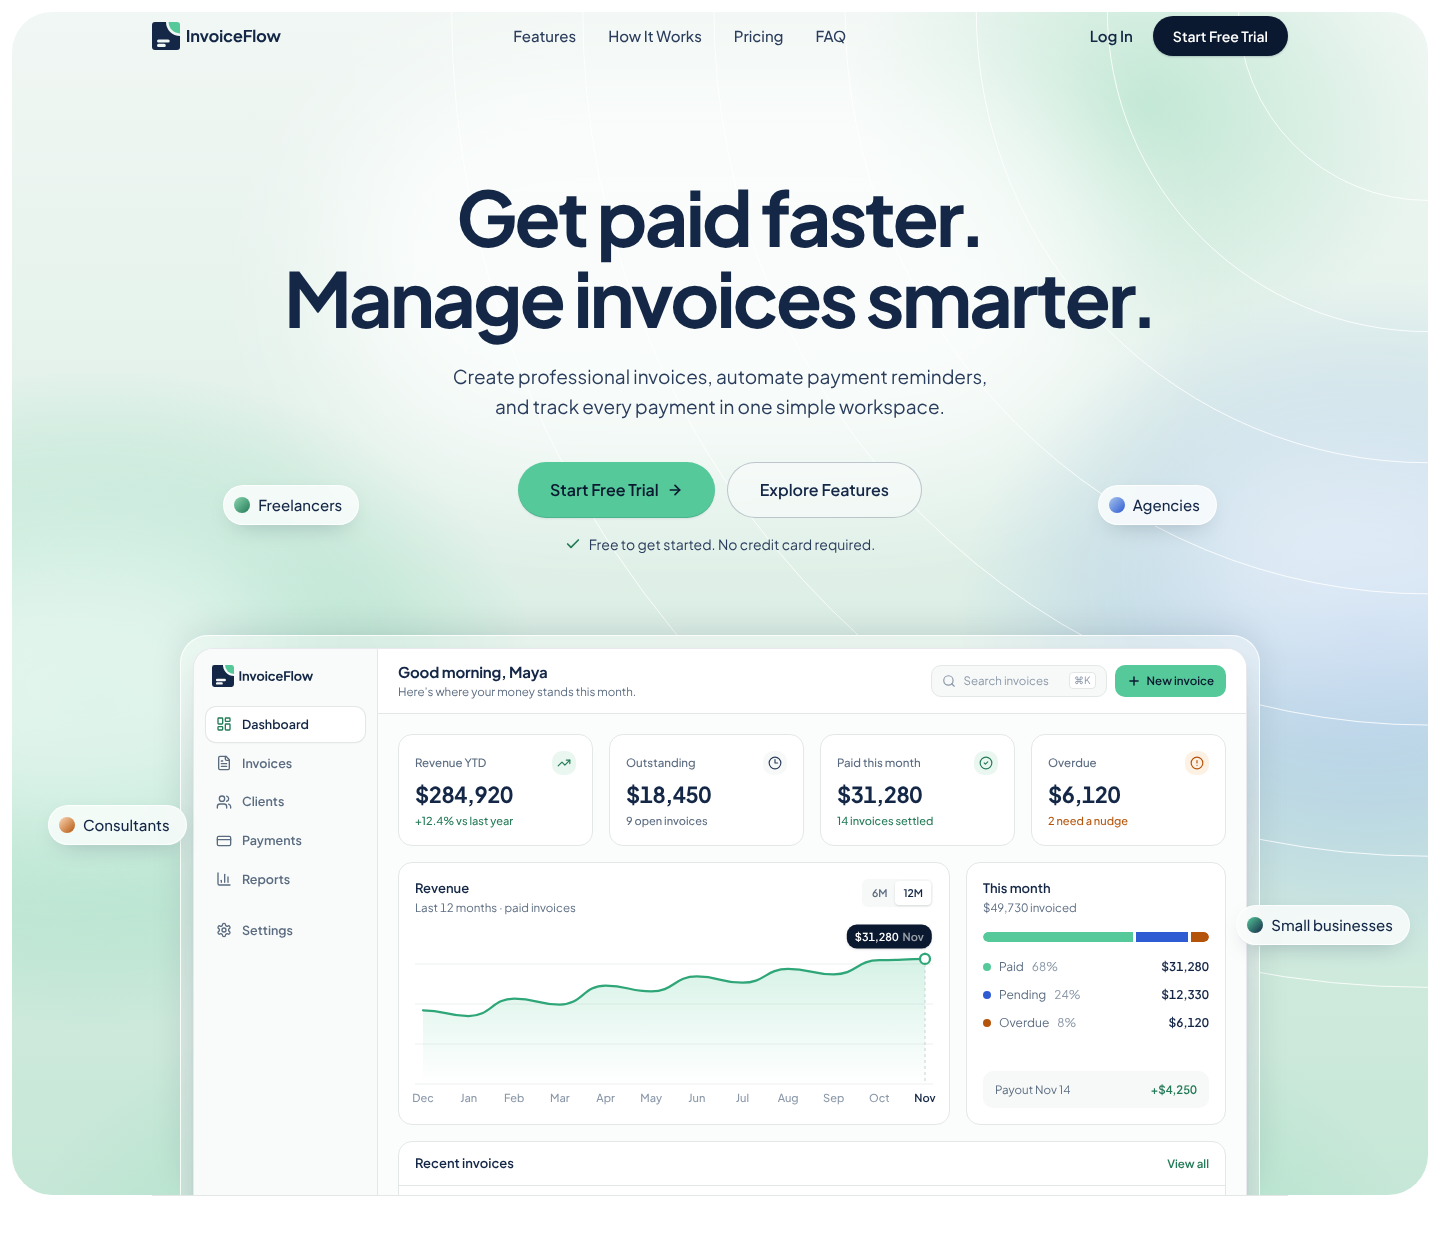
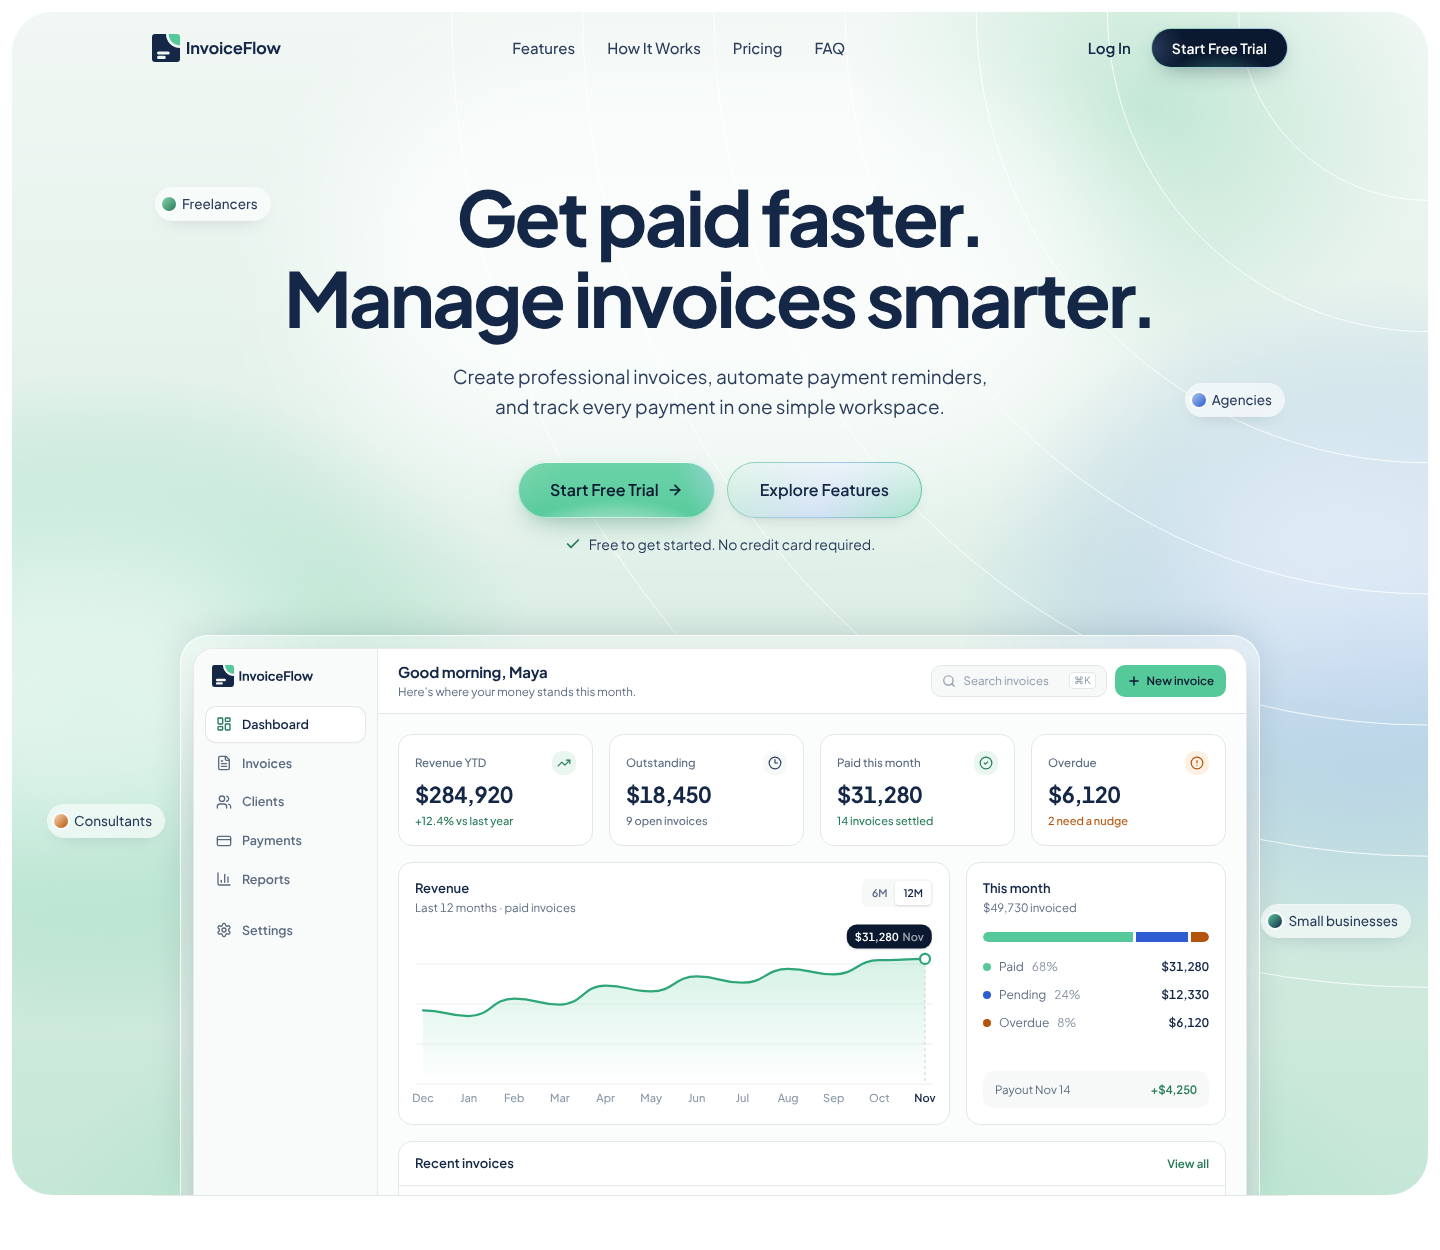
Signature glow buttons, calmer audience chips, nav breathing room
Buttons become pills with layered brand-colour light: a mint-to-sky glow
for primary actions, frosted glass with a gradient rim for secondary,
and a midnight aurora pill for the header CTA. Worst-case label contrast
measured per pixel is 8.4:1 or better (AAA); see docs/button-contrast.md.

Audience chips are smaller and move to headline and subhead height so
they no longer read as buttons beside the CTAs. The header gains top
margin so nav items clear the hero panel's rounded edge.

Claude-Session: https://claude.ai/code/session_01BMwnAZUSDMBHdEEFwNrE9Z

diff --git a/src/index.css b/src/index.css
@@ -47,7 +47,7 @@
 @layer base {
   html {
     scroll-behavior: smooth;
-    scroll-padding-top: 88px;
+    scroll-padding-top: 100px;
     -webkit-text-size-adjust: 100%;
   }
   body {
@@ -140,4 +140,94 @@
 .animate-drift {
   animation: drift 6s ease-in-out infinite;
   animation-delay: var(--drift-delay, 0s);
+}
+
+/*
+ * Signature buttons: soft light trapped inside a pill, in brand colours.
+ * Text colours are fixed (navy on light fills, white on midnight) so contrast
+ * stays at or above WCAG AA wherever the glow sits; see docs/button-contrast.md.
+ */
+@layer components {
+  .btn-glow {
+    position: relative;
+    isolation: isolate;
+    color: var(--color-midnight);
+    background:
+      radial-gradient(60% 75% at 50% 118%, rgb(255 255 255 / 1), transparent 72%),
+      radial-gradient(38% 120% at 6% 10%, rgb(160 226 196 / 1), transparent 70%),
+      radial-gradient(42% 150% at 100% 30%, rgb(176 206 245 / 1), transparent 72%),
+      linear-gradient(180deg, #62d0a2 0%, #4cc493 100%);
+    background-size: 140% 140%;
+    background-position: 50% 50%;
+    box-shadow:
+      inset 0 0 0 1px rgb(255 255 255 / 0.55),
+      inset 0 1px 0 rgb(255 255 255 / 0.75),
+      0 10px 28px -12px rgb(35 122 87 / 0.65);
+    transition:
+      background-position 500ms var(--ease-out-soft),
+      box-shadow 300ms var(--ease-out-soft),
+      transform 200ms var(--ease-out-soft);
+  }
+  .btn-glow:hover {
+    background-position: 30% 70%;
+    box-shadow:
+      inset 0 0 0 1px rgb(255 255 255 / 0.7),
+      inset 0 1px 0 rgb(255 255 255 / 0.85),
+      0 14px 34px -12px rgb(35 122 87 / 0.75);
+  }
+
+  /* Frosted glass with a mint-to-sky gradient rim; for light backgrounds. */
+  .btn-glass {
+    color: var(--color-ink);
+    border: 1.5px solid transparent;
+    background:
+      linear-gradient(180deg, rgb(255 255 255 / 0.78), rgb(255 255 255 / 0.5)) padding-box,
+      linear-gradient(115deg, #8bd6b0, #a8c5ec 50%, #55c99a) border-box;
+    backdrop-filter: blur(10px);
+    box-shadow: 0 6px 20px -14px rgb(11 25 48 / 0.45);
+    transition:
+      background 300ms var(--ease-out-soft),
+      box-shadow 300ms var(--ease-out-soft),
+      transform 200ms var(--ease-out-soft);
+  }
+  .btn-glass:hover {
+    background:
+      linear-gradient(180deg, rgb(255 255 255 / 0.95), rgb(255 255 255 / 0.8)) padding-box,
+      linear-gradient(115deg, #55c99a, #8ab0e8 50%, #237a57) border-box;
+    box-shadow: 0 10px 26px -14px rgb(11 25 48 / 0.5);
+  }
+
+  /* Midnight pill with an inner aurora and a gradient rim. */
+  .btn-aurora {
+    color: #fff;
+    border: 1.5px solid transparent;
+    background:
+      radial-gradient(65% 100% at 50% 135%, rgb(85 201 154 / 0.6), transparent 72%) padding-box,
+      radial-gradient(38% 130% at 0% 50%, rgb(138 176 232 / 0.35), transparent 72%) padding-box,
+      radial-gradient(30% 120% at 100% 40%, rgb(139 214 176 / 0.22), transparent 72%) padding-box,
+      linear-gradient(#0b1930, #0b1930) padding-box,
+      linear-gradient(110deg, #8bd6b0, #a8c5ec 45%, #55c99a 80%, #8bd6b0) border-box;
+    background-size: 100% 100%, 100% 100%, 100% 100%, 100% 100%, 200% 100%;
+    background-position: 0 0, 0 0, 0 0, 0 0, 0% 50%;
+    box-shadow: 0 8px 24px -12px rgb(11 25 48 / 0.6);
+    transition:
+      background-position 700ms var(--ease-out-soft),
+      box-shadow 300ms var(--ease-out-soft),
+      transform 200ms var(--ease-out-soft);
+  }
+  .btn-aurora:hover {
+    background-position: 0 0, 0 0, 0 0, 0 0, 100% 50%;
+    box-shadow: 0 12px 30px -12px rgb(35 122 87 / 0.55);
+  }
+
+  .btn-glow:hover,
+  .btn-glass:hover,
+  .btn-aurora:hover {
+    transform: translateY(-1px);
+  }
+  .btn-glow:active,
+  .btn-glass:active,
+  .btn-aurora:active {
+    transform: translateY(1px);
+  }
 }

diff --git a/src/sections/Hero.tsx b/src/sections/Hero.tsx
@@ -14,11 +14,11 @@ import { DashboardPreview } from '../components/dashboard/DashboardPreview';
 function AudienceChip({ label, dot, delay = 0, className = '' }: { label: string; dot: string; delay?: number; className?: string }) {
   return (
     <span
-      className={`animate-drift pointer-events-none absolute z-20 hidden items-center gap-2 rounded-full border border-white/80 bg-white/75 py-2 pr-4 pl-2.5 text-[15px] font-medium text-ink shadow-[0_8px_24px_-12px_rgb(11_25_48/0.35)] backdrop-blur-md lg:inline-flex ${className}`}
+      className={`animate-drift pointer-events-none absolute z-20 hidden items-center gap-1.5 rounded-full bg-white/60 py-1.5 pr-3 pl-1.5 text-[13.5px] font-medium text-ink-soft shadow-[0_6px_20px_-12px_rgb(11_25_48/0.4)] ring-1 ring-white/70 backdrop-blur-md lg:inline-flex ${className}`}
       style={{ '--drift-delay': `${delay}s` } as CSSProperties}
       aria-hidden="true"
     >
-      <span className="size-4 rounded-full" style={{ background: dot }} />
+      <span className="size-3.5 rounded-full ring-2 ring-white/80" style={{ background: dot }} />
       {label}
     </span>
   );
@@ -44,10 +44,13 @@ function HeroAtmosphere() {
 
 export function Hero() {
   return (
-    <section id="top" aria-labelledby="hero-title" className="-mt-[72px] bg-white px-2 pt-2 sm:px-3 sm:pt-3">
+    <section id="top" aria-labelledby="hero-title" className="-mt-[80px] bg-white px-2 pt-2 sm:-mt-[84px] sm:px-3 sm:pt-3">
       <div className="relative isolate overflow-hidden rounded-[28px] sm:rounded-[40px]">
         <HeroAtmosphere />
         <Container className="relative flex flex-col items-center pt-[120px] text-center sm:pt-[148px] lg:pt-[164px]">
+          {/* Chips sit at headline and subhead height, well away from the CTA row. */}
+          <AudienceChip label="Freelancers" dot="linear-gradient(135deg,#8BD6B0,#237A57)" className="top-[176px] left-[1%] xl:left-[3%]" />
+          <AudienceChip label="Agencies" dot="linear-gradient(135deg,#A8C5EC,#2F5BD3)" delay={1.2} className="top-[372px] right-[1%] xl:right-[3%]" />
           <Reveal>
             <h1 id="hero-title" className="text-[42px] leading-[1.06] font-bold tracking-[-0.04em] text-ink sm:text-[60px] lg:text-[76px]">
               Get paid faster.
@@ -66,7 +69,7 @@ export function Hero() {
                 Start Free Trial
                 <ArrowRight className="size-4" strokeWidth={2.5} />
               </ButtonLink>
-              <ButtonLink href="#features" size="lg" shape="pill" variant="secondary" className="!border-ink/25 !bg-white/40 backdrop-blur-sm hover:!bg-white/80">
+              <ButtonLink href="#features" size="lg" shape="pill" variant="secondary">
                 Explore Features
               </ButtonLink>
             </div>
@@ -77,8 +80,6 @@ export function Hero() {
           </Reveal>
 
           <div className="relative mt-14 w-full max-w-[1080px] sm:mt-16 lg:mt-20">
-            <AudienceChip label="Freelancers" dot="linear-gradient(135deg,#8BD6B0,#237A57)" className="-top-[150px] left-[4%]" />
-            <AudienceChip label="Agencies" dot="linear-gradient(135deg,#A8C5EC,#2F5BD3)" delay={1.2} className="-top-[150px] right-[4%]" />
             <AudienceChip label="Consultants" dot="linear-gradient(135deg,#FCD9B8,#B4540A)" delay={2.1} className="top-[170px] -left-[132px] !hidden xl:!inline-flex" />
             <AudienceChip label="Small businesses" dot="linear-gradient(135deg,#55C99A,#142746)" delay={0.6} className="top-[270px] -right-[150px] !hidden xl:!inline-flex" />
 

diff --git a/src/components/ui/Button.tsx b/src/components/ui/Button.tsx
@@ -5,17 +5,18 @@ type Shape = 'rounded' | 'pill';
 type Size = 'sm' | 'md' | 'lg';
 
 const base =
-  'inline-flex items-center justify-center gap-2 whitespace-nowrap font-semibold transition-[background-color,border-color,color,box-shadow,transform] duration-200 ease-[var(--ease-out-soft)] active:translate-y-px disabled:pointer-events-none disabled:opacity-50';
+  'inline-flex items-center justify-center gap-2 whitespace-nowrap font-semibold disabled:pointer-events-none disabled:opacity-50';
 
 const variants: Record<Variant, string> = {
   // Fresh green with navy text: 7.25:1 contrast and the "paid" colour of the logo.
-  primary:
-    'bg-green text-midnight shadow-[inset_0_-1px_0_rgb(11_25_48/0.12),0_1px_2px_rgb(11_25_48/0.08)] hover:bg-green-hover hover:shadow-[inset_0_-1px_0_rgb(11_25_48/0.12),0_6px_16px_-6px_rgb(35_122_87/0.55)]',
-  secondary: 'bg-white text-ink border border-line-strong hover:border-ink/30 hover:bg-paper',
-  dark: 'bg-midnight text-white hover:bg-ink shadow-[0_1px_2px_rgb(11_25_48/0.2)]',
-  ghost: 'text-ink hover:bg-ink/5',
-  inverse: 'bg-white text-midnight hover:bg-paper',
-  'outline-inverse': 'border border-white/20 text-white hover:border-white/40 hover:bg-white/5',
+  // Styles live in index.css (.btn-glow / .btn-glass / .btn-aurora): layered gradients
+  // read better as named components than as long utility strings.
+  primary: 'btn-glow',
+  secondary: 'btn-glass',
+  dark: 'btn-aurora',
+  ghost: 'text-ink transition-colors hover:bg-ink/5',
+  inverse: 'bg-white text-midnight transition-colors hover:bg-paper',
+  'outline-inverse': 'border border-white/20 text-white transition-colors hover:border-white/40 hover:bg-white/5',
 };
 
 const sizes: Record<Size, string> = {
@@ -33,7 +34,7 @@ const pillSizes: Record<Size, string> = {
 
 type Common = { variant?: Variant; size?: Size; shape?: Shape; children: ReactNode; className?: string };
 
-export function buttonClasses(variant: Variant = 'primary', size: Size = 'md', className = '', shape: Shape = 'rounded') {
+export function buttonClasses(variant: Variant = 'primary', size: Size = 'md', className = '', shape: Shape = 'pill') {
   const geometry = shape === 'pill' ? `rounded-full ${pillSizes[size]}` : `rounded-[var(--radius-md)] ${sizes[size]}`;
   return `${base} ${variants[variant]} ${geometry} ${className}`;
 }

diff --git a/src/sections/Header.tsx b/src/sections/Header.tsx
@@ -64,7 +64,7 @@ export function Header() {
       <a href="#main" className="sr-only focus:not-sr-only focus:absolute focus:top-3 focus:left-3 focus:rounded-md focus:bg-white focus:px-3 focus:py-2 focus:text-sm focus:font-semibold">
         Skip to content
       </a>
-      <Container className="flex h-[72px] items-center justify-between gap-6">
+      <Container className="mt-2 flex h-[72px] items-center justify-between gap-6 sm:mt-3">
         <a href="#top" className="shrink-0 rounded-md" aria-label="InvoiceFlow home">
           <Logo className="h-7 w-auto" />
         </a>
@@ -108,7 +108,7 @@ export function Header() {
         id="mobile-menu"
         ref={panelRef}
         hidden={!open}
-        className="fixed inset-x-0 top-[72px] bottom-0 overflow-y-auto border-t border-line bg-paper lg:hidden"
+        className="fixed inset-x-0 top-[80px] bottom-0 sm:top-[84px] overflow-y-auto border-t border-line bg-paper lg:hidden"
       >
         <Container className="flex min-h-full flex-col py-6">
           <nav aria-label="Mobile">

diff --git a/src/sections/Footer.tsx b/src/sections/Footer.tsx
@@ -56,9 +56,9 @@ function Newsletter() {
           }}
           aria-invalid={state === 'error'}
           aria-describedby="newsletter-msg"
-          className={`h-11 min-w-0 flex-1 rounded-[var(--radius-md)] border bg-white/5 px-4 text-[15px] text-white placeholder:text-white/40 transition-colors outline-none focus:bg-white/10 ${state === 'error' ? 'border-[#F2A36B]' : 'border-white/15 focus:border-green'}`}
+          className={`h-12 min-w-0 flex-1 rounded-full border bg-white/5 px-4 text-[15px] text-white placeholder:text-white/40 transition-colors outline-none focus:bg-white/10 ${state === 'error' ? 'border-[#F2A36B]' : 'border-white/15 focus:border-green'}`}
         />
-        <Button type="submit" size="md">
+        <Button type="submit" size="md" className="sm:!h-12">
           Subscribe
           <ArrowRight className="size-4" strokeWidth={2.5} />
         </Button>

diff --git a/docs/button-contrast.md b/docs/button-contrast.md
@@ -1,0 +1,20 @@
+# Button contrast check
+
+The signature buttons (`.btn-glow`, `.btn-glass`, `.btn-aurora` in `src/index.css`) put text over gradients, so contrast was measured against the worst pixel behind each label, not an average colour.
+
+Method: render the page at 2x, make each label transparent, screenshot the button at rest and on hover, then compute the WCAG 2.2 contrast ratio between the label colour and every pixel inside the label's bounding box. The lowest value is reported.
+
+| Button | Label colour | Worst case (rest) | Worst case (hover) | Result |
+|---|---|---|---|---|
+| `.btn-glow` (primary) | Midnight `#0B1930` | 8.44:1 | 8.43:1 | AAA |
+| `.btn-glass` (secondary) | Deep Navy `#142746` | 11.44:1 | 12.61:1 | AAA |
+| `.btn-aurora` (header) | White | 12.74:1 | 12.74:1 | AAA |
+
+AA for normal text needs 4.5:1; AAA needs 7:1.
+
+Other checks:
+- Keyboard focus keeps the global `:focus-visible` outline (Ledger Green, 3px offset).
+- Hover and press motion is disabled under `prefers-reduced-motion`.
+- Labels never rely on colour alone; every button has visible text.
+
+Re-run after changing any gradient stop in those three classes.
